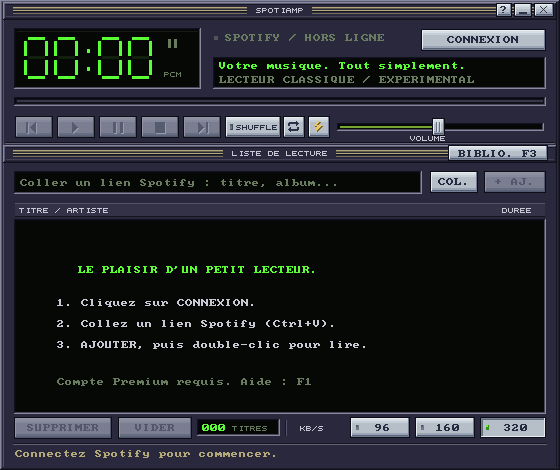
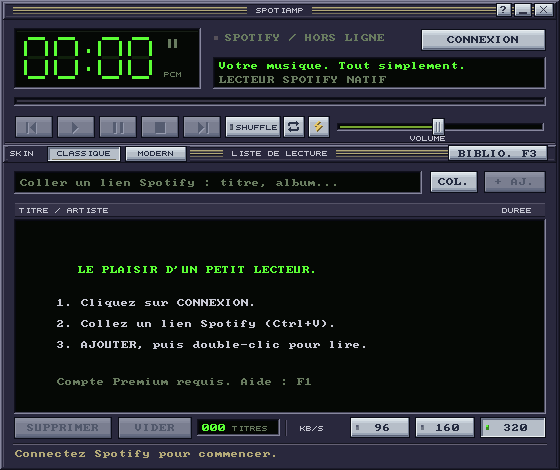
Remove experimental status from Spotiamp presentation

Changed region(s): [[0.0, 0.2979, 0.3339, 0.3574], [0.5161, 0.1489, 0.85, 0.1787]]

diff --git a/src/ui/about_skin.rs b/src/ui/about_skin.rs
@@ -144,7 +144,7 @@ impl View {
         self.about_centered(247, "Deux skins intégrés : Classique et Modern.", WHITE);
         self.rect(64, 269, 432, 1, 0x303042);
         self.about_centered(285, "Spotify Premium requis pour écouter.", WHITE);
-        self.about_centered(307, "Projet expérimental - Code sous licence MIT.", WHITE);
+        self.about_centered(307, "Logiciel libre sous licence MIT.", WHITE);
         self.about_centered(331, "github.com/roukmoute/spotiamp", GREEN);
         self.about_centered(353, "(c) 2026 Spotiamp contributors", DIM);
         self.about_centered(369, "Non affilié à Spotify ou à Winamp.", DIM);
@@ -236,39 +236,39 @@ impl View {
         for (y, version, first, second) in [
             (
                 109,
+                "0.2.8 / LECTEUR SPOTIFY NATIF",
+                "Présentation harmonisée dans le lecteur et l'aide.",
+                "À propos et documentation mis à jour.",
+            ),
+            (
+                154,
                 "0.2.7 / DISPOSITION MÉMORISÉE",
                 "Positions et fenêtres attachées ou libres mémorisées.",
                 "Bibliothèque ouverte ou fermée retrouvée au lancement.",
             ),
             (
-                154,
+                199,
                 "0.2.6 / FENÊTRES AIMANTÉES",
                 "Glisser la bibliothèque pour la détacher.",
                 "Rapprocher les bords et relâcher pour les recoller.",
             ),
             (
-                199,
+                244,
                 "0.2.5 / NAVIGATION AU CLAVIER",
                 "Un appui bref sur une flèche déplace une seule ligne.",
                 "Maintenir la touche conserve la répétition.",
             ),
             (
-                244,
+                289,
                 "0.2.4 / CHANGEMENTS RAPIDES DE TITRE",
                 "Dernier choix chargé après 200 ms sans nouveau clic.",
                 "Anciens chargements annulés ; clics conservés.",
             ),
             (
-                289,
+                334,
                 "0.2.3 / DÉFILEMENT PLUS SOUPLE",
                 "Molette sur la fenêtre survolée, même inactive.",
                 "Avance automatique : petit décalage si nécessaire.",
-            ),
-            (
-                334,
-                "0.2.2 / BOUTONS MODERN",
-                "Contours mieux lissés et relief cohérent.",
-                "Au repos comme pendant l'appui.",
             ),
         ] {
             self.text(54, y, version, GOLD, 56);

diff --git a/src/main.rs b/src/main.rs
@@ -573,7 +573,7 @@ fn run(initial_notice: Option<String>) -> Result<(), Box<dyn std::error::Error>>
         println!(concat!(
             "Spotiamp ",
             env!("CARGO_PKG_VERSION"),
-            " experimental\n--scale 2        double-size bitmap UI\n--skin classic|modern   override the saved skin for this run\n--library        open the playlist library for this run (overrides saved layout)\n--no-library     start with the player only for this run; F3 opens the library\n--about [player|credits|shortcuts|history|updates]   open the About dialog\n--screenshot FILE.ppm   render the disconnected UI without opening a window\n--no-update-check       skip the automatic startup update check\n--quit-after SECONDS    automatic exit for reproducible idle measurements\nSpace: play/pause; Ctrl+V: paste URL; Enter: add/play; Delete: remove; F1: help; F2: About; F3: playlist library; F4: switch skin"
+            "\n--scale 2        double-size bitmap UI\n--skin classic|modern   override the saved skin for this run\n--library        open the playlist library for this run (overrides saved layout)\n--no-library     start with the player only for this run; F3 opens the library\n--about [player|credits|shortcuts|history|updates]   open the About dialog\n--screenshot FILE.ppm   render the disconnected UI without opening a window\n--no-update-check       skip the automatic startup update check\n--quit-after SECONDS    automatic exit for reproducible idle measurements\nSpace: play/pause; Ctrl+V: paste URL; Enter: add/play; Delete: remove; F1: help; F2: About; F3: playlist library; F4: switch skin"
         ));
         return Ok(());
     }
@@ -605,10 +605,7 @@ fn run(initial_notice: Option<String>) -> Result<(), Box<dyn std::error::Error>>
         Scale::X1
     };
     let mut window = Window::new(
-        &format!(
-            "Spotiamp {} — lecteur Spotify expérimental",
-            env!("CARGO_PKG_VERSION")
-        ),
+        &format!("Spotiamp {} — lecteur Spotify", env!("CARGO_PKG_VERSION")),
         ui::WIDTH,
         ui::HEIGHT,
         WindowOptions {

diff --git a/src/ui/skin.rs b/src/ui/skin.rs
@@ -396,7 +396,7 @@ impl View {
             219,
             76,
             row.map(|r| r.artist.as_str())
-                .unwrap_or("LECTEUR CLASSIQUE / EXPERIMENTAL"),
+                .unwrap_or("LECTEUR SPOTIFY NATIF"),
             DIM,
             40,
         );
@@ -705,7 +705,7 @@ impl View {
             "Sans coffre disponible : connexion non memorisee.",
             "DECONNECTER oublie la session enregistree.",
             "Le moteur peut choisir un debit de repli.",
-            "Prototype : recherche et egaliseur non inclus.",
+            "Recherche et egaliseur non inclus.",
             "F1, Echap ou clic : fermer cette aide.",
         ]
         .iter()

diff --git a/CHANGELOG.md b/CHANGELOG.md
@@ -1,5 +1,14 @@
 # Changements
 
+## 0.2.8 — 22 octobre 2026
+
+- Spotiamp est présenté comme un lecteur Spotify natif : retrait des mentions
+  « expérimental » et « prototype » dans l'interface, le titre de fenêtre,
+  À propos, l'aide, les métadonnées et la présentation du projet.
+- Aperçu du README actualisé et outils de validation adaptés au nouveau titre
+  de fenêtre, avec prise en charge des anciennes versions pour les comparaisons
+  de performances et les essais de mise à jour.
+
 ## 0.2.7 — 22 octobre 2026
 
 - La fermeture normale mémorise les positions du lecteur et de la bibliothèque,

diff --git a/README.md b/README.md
@@ -9,8 +9,8 @@ Premium est nécessaire.
 
 Des binaires natifs sont publiés pour **Windows x64, macOS Apple Silicon et
 Linux x64**. La compilation, les tests et la création des paquets sont automatisés
-sur les trois systèmes. **Le projet reste expérimental** : les mesures, les
-essais de lecture et leurs limites sont détaillés dans [PERFORMANCE.md](PERFORMANCE.md).
+sur les trois systèmes. Les mesures de performances, les essais de lecture et
+leurs résultats sont détaillés dans [PERFORMANCE.md](PERFORMANCE.md).
 
 ## Télécharger et lancer
 
